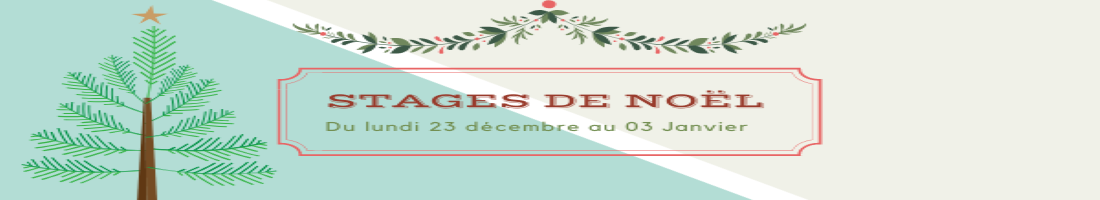
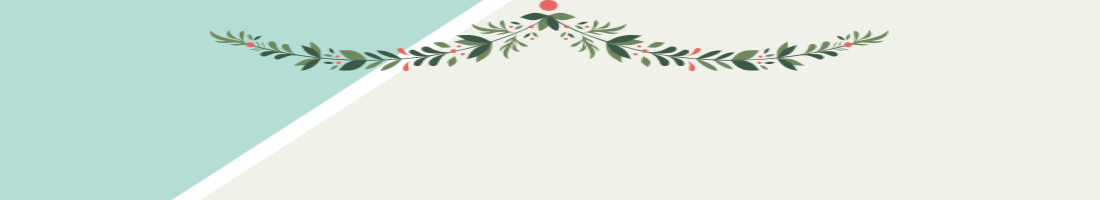
Fichier ajouté

diff --git a/app/assets/stylesheets/css/style.css b/app/assets/stylesheets/css/style.css
@@ -7180,9 +7180,13 @@ button.bg-blue:focus {
     background-color: #00DBD0 !important; }*/
 
 /* Bannière */
+/*.boxed{
+  height:200px;width:1100px;margin-left:20px;
+}*/
 .bg-cooodit {
-  position: relative;
-  background-image: url(../../assets/cooodit/stages_de_noël2.png) !important;
+  /*position: relative;*/
+  background-image: url(../../assets/cooodit/stages_de_noël.png) !important;
+  /*height:200px;width:1100px;margin-left:20px;*/
 }
 /* Bannière */
 
